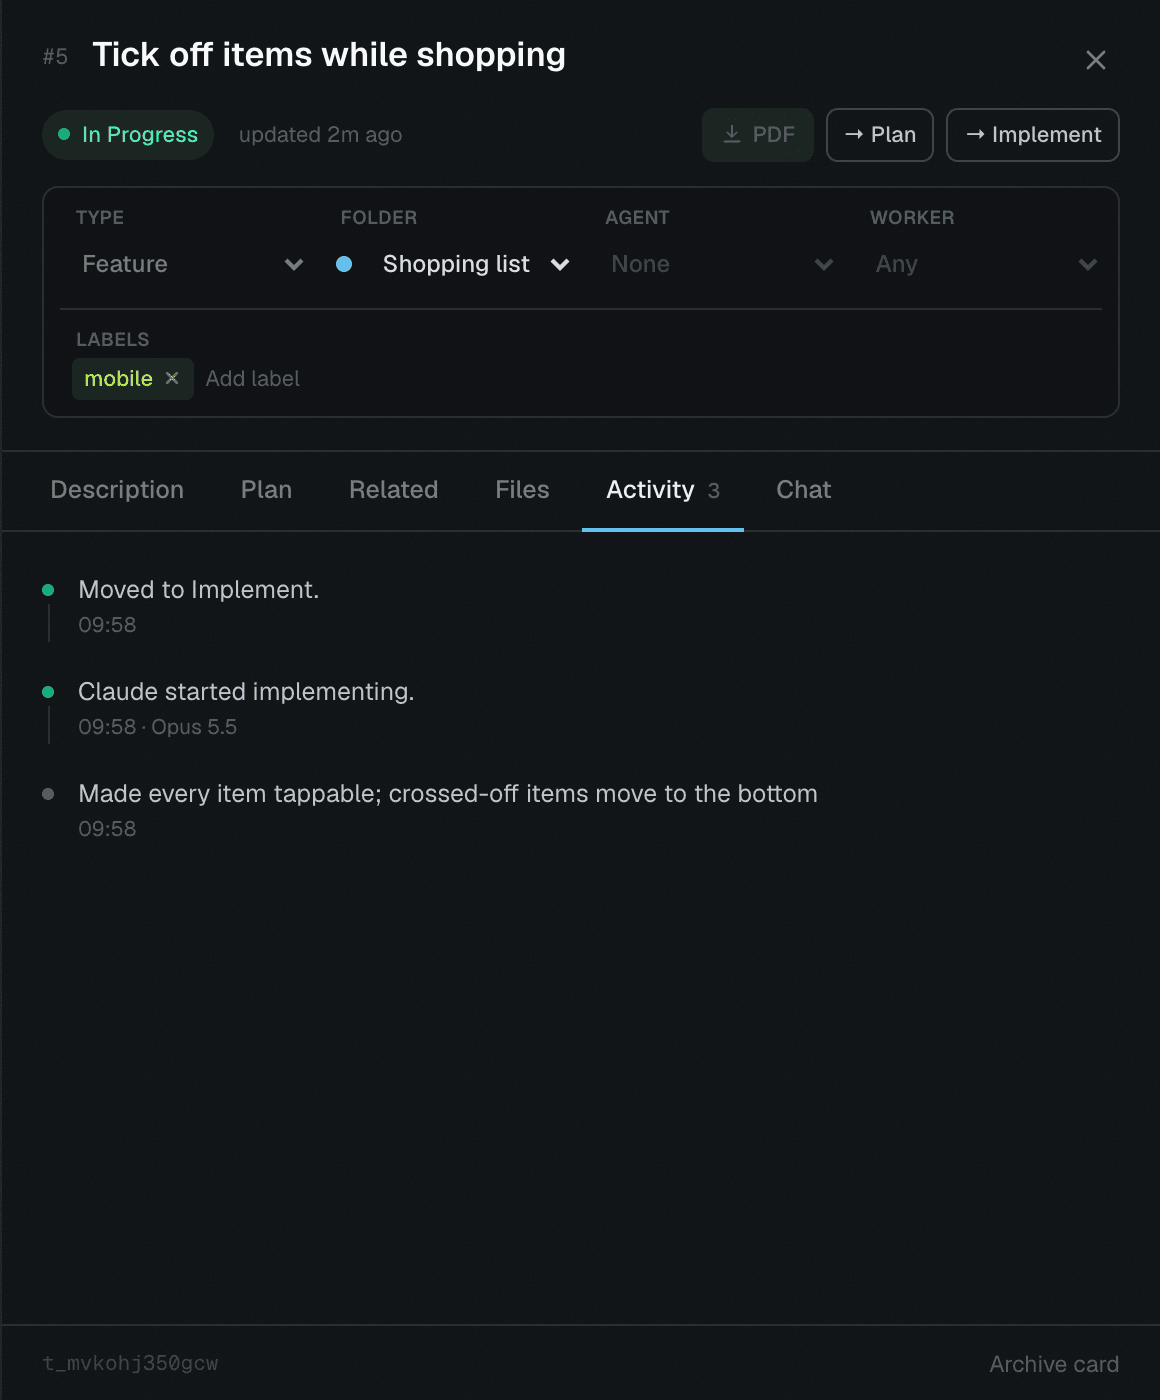
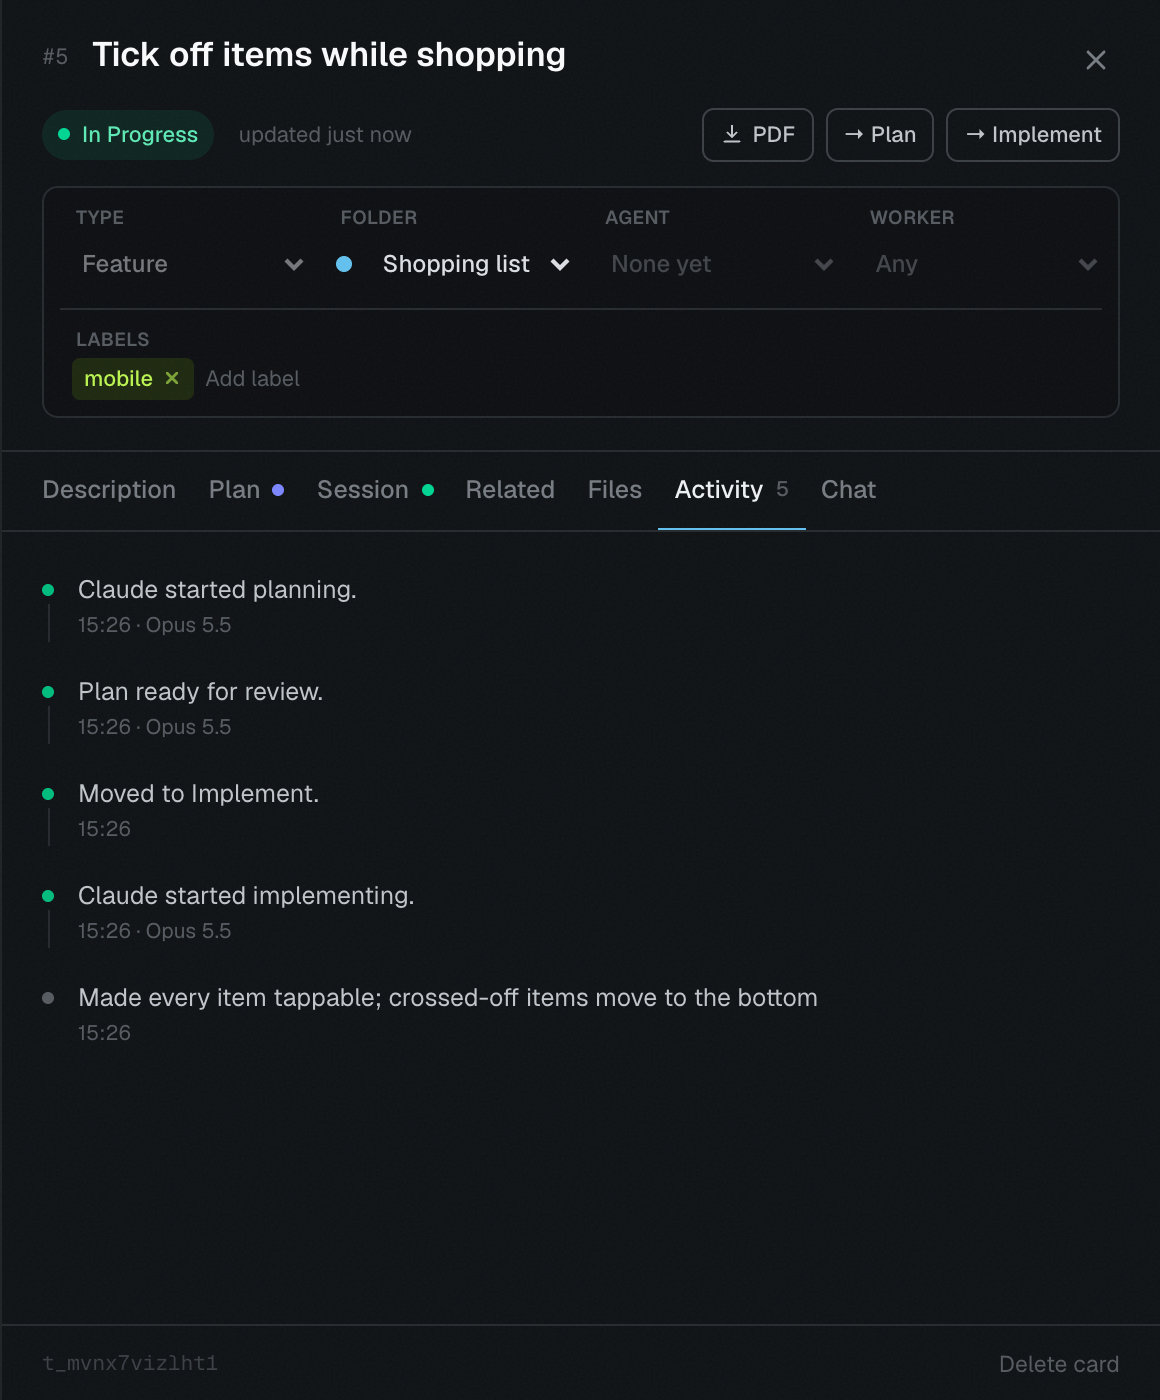
Updated readme

diff --git a/README.md b/README.md
@@ -147,19 +147,40 @@ it was checked.
 Not quite right? Write what's missing in the **Chat** and drag the card back to **Implement**.
 The earlier result is kept further down, so nothing gets lost.
 
+### Cards that belong together 🔗
+
+Some cards only make sense next to another one: a bug in a feature you finished last week, or the
+second half of a split-up job. **Drop one card onto another** (on its lower half, where it says
+*Link as related*) and the card you dropped it on will *read* the other one. When Claude works
+that card, it also gets the other card's description, plan and result as background, so it knows
+what was decided before.
+
+To see all of that at once, click **Relations** in the top bar. Every card appears on a map, with
+an arrow from each card to the cards it reads. Hover a card to light up its links.
+
+<p align="center">
+  <img src="docs/images/guide-relations.png" alt="The Relations map: cards as boxes with arrows between them; the hovered card's two links are lit up" width="640">
+</p>
+
+On the map you can:
+
+- **Link** two cards: hover a card and drag from the blue dot on its right onto another card.
+- **Unlink** them: hover an arrow and click the little trash button that appears on it.
+- **Make a new card**: **+ New card**, double-click an empty spot, or drop a link on empty space
+  to get a new card that is already linked.
+- **Open** a card: click it, and it opens on the right while the map stays.
+- **Tidy up**: arrange everything neatly so it fits the window.
+
 ### Handy extras 🎁
 
 - 🔎 **Search:** press <kbd>/</kbd> and type a word to find any card.
 - 🗑 **Delete a card:** **Delete card** at the bottom of a card. It asks first, because deleting
-  can't be undone; tick *Don't show this again* to skip the question (switch it back on in
-  Settings ⚙ → Board).
+  can't be undone, and tells you which cards will lose their link to it. Tick *Don't show this
+  again* to skip the question (switch it back on in Settings ⚙ → Board).
 - 📁 **Folders:** group cards by topic ("Shopping list", "Recipes"). Optional, purely for tidiness.
 - 🏷 **Labels:** little coloured tags such as `design` or `mobile`. Click one at the top to show
   only those cards.
-- 🔗 **Related cards:** drop a card onto another card to say "read this one too". Handy for a bug
-  that belongs to an earlier feature. **Relations** at the top shows every card and the arrows
-  between them; draw a line from one card to another to link them, and press **Tidy up** to
-  sort the picture.
+- 🔗 **Related cards:** see [Cards that belong together](#cards-that-belong-together-) just above.
 - 🖥 **Session:** every card keeps what Claude did on it, step by step, run by run. Open the
   card's **Session** tab to watch live or look back later.
 - 🔔 **Alerts:** the ⚙ menu can play a sound or show a notification when a card moves, so you
@@ -381,6 +402,14 @@ are never touched. A card in <i>Plan</i> never changes anything, it only produce
 </details>
 
 <details>
+<summary><b>I deleted a card by mistake. Can I get it back?</b></summary>
+
+Not from the board: deleting is final, which is why it asks first. If your project uses git and
+the card was committed, its file can be restored from there (it lives in
+<code>.ticketrail/tasks/</code>). Its links from other cards would have to be added again.
+</details>
+
+<details>
 <summary><b>I dragged a card by mistake. Now what?</b></summary>
 
 Drag it back. If Claude already started, dragging it out of <i>In Progress</i> tells Claude to stop.
@@ -598,6 +627,12 @@ and does not have to work out what "see #12" means. Links are one level deep and
 linked card shows the link under **Referenced by**, but Claude only gets context from the card it
 is working on.
 
+Put the link on the card that **needs** the context, usually the newer one: the follow-up bug links
+the original feature, not the other way round. Each linked card can add up to about 24,000
+characters (description, plan and result, 8,000 each) to what Claude reads for that card, so link
+for a reason, not just because two cards are similar. Cards that are not linked are never shown to
+Claude. Deleting a card removes every link to it (see [Deleting a card](#deleting-a-card)).
+
 ```bash
 ticketrail relate <id> #12 #14     # link, by id or #number
 ticketrail unrelate <id> #12       # unlink
@@ -633,6 +668,26 @@ investigation it was derived from.
 
 Hovering a card highlights its links and dims the rest. Where the cards sit is remembered in this
 browser only, per project; the links themselves are stored on the cards like any other.
+
+## Deleting a card
+
+**Delete card** at the bottom of a card's drawer (or of the panel in the Relations view) removes
+the card for good:
+
+- its file in `.ticketrail/tasks/`, its attachments in `.ticketrail/files/` and its saved
+  sessions in `.ticketrail/sessions/`;
+- every link to it: it leaves every other card's `related` list, and implementation cards made from
+  it lose their `derivedFrom`. Each card that lost a link gets "Unlinked #n (the card was deleted)."
+  in its activity, and keeps its other links.
+
+A dialog asks first. It names the card, says it cannot be undone and lists which cards will lose
+their link. **Cancel** has the focus. *Don't show this again* turns the dialog off in this browser;
+**Settings ⚙ → Board → Ask before deleting a card** turns it back on. A card that is In Progress
+cannot be deleted (the worker would write it straight back); move it out first. The API call is
+`DELETE /api/projects/<project>/tasks/<id>`; there is no CLI command, so a worker never deletes cards.
+
+Cards no longer get archived. Boards from before this change may still have card files marked
+`"archived": true`; those stay hidden and can be deleted the same way.
 
 ## Folders
 
@@ -888,12 +943,8 @@ the plan, the activity feed, the chat, and the ids of any attached files (the by
 them in `.ticketrail/files/`). One file per card rather than one big array: two
 independent writers on a single file lose updates, and per-card files give clean git diffs.
 
-**Deleting a card** removes its file, its attachments in `.ticketrail/files/` and its saved
-sessions, and takes it out of every other card's `related` list (and `derivedFrom`), noting
-"Unlinked #n (the card was deleted)" in each of those cards' activity. It is refused while the
-card is In Progress, because the worker would only write it back. (Older boards may still
-have cards marked `"archived": true` from before deleting existed; they stay hidden and can be
-deleted the same way.)
+Deleting a card removes its file, its attachments and its saved sessions together, under the same
+lock, after removing every link to it; see [Deleting a card](#deleting-a-card).
 
 Every write goes through a `mkdir`-based lock and lands via `rename`, so the board stays
 consistent when Claude and the browser act at the same moment. `next` claims a card under
